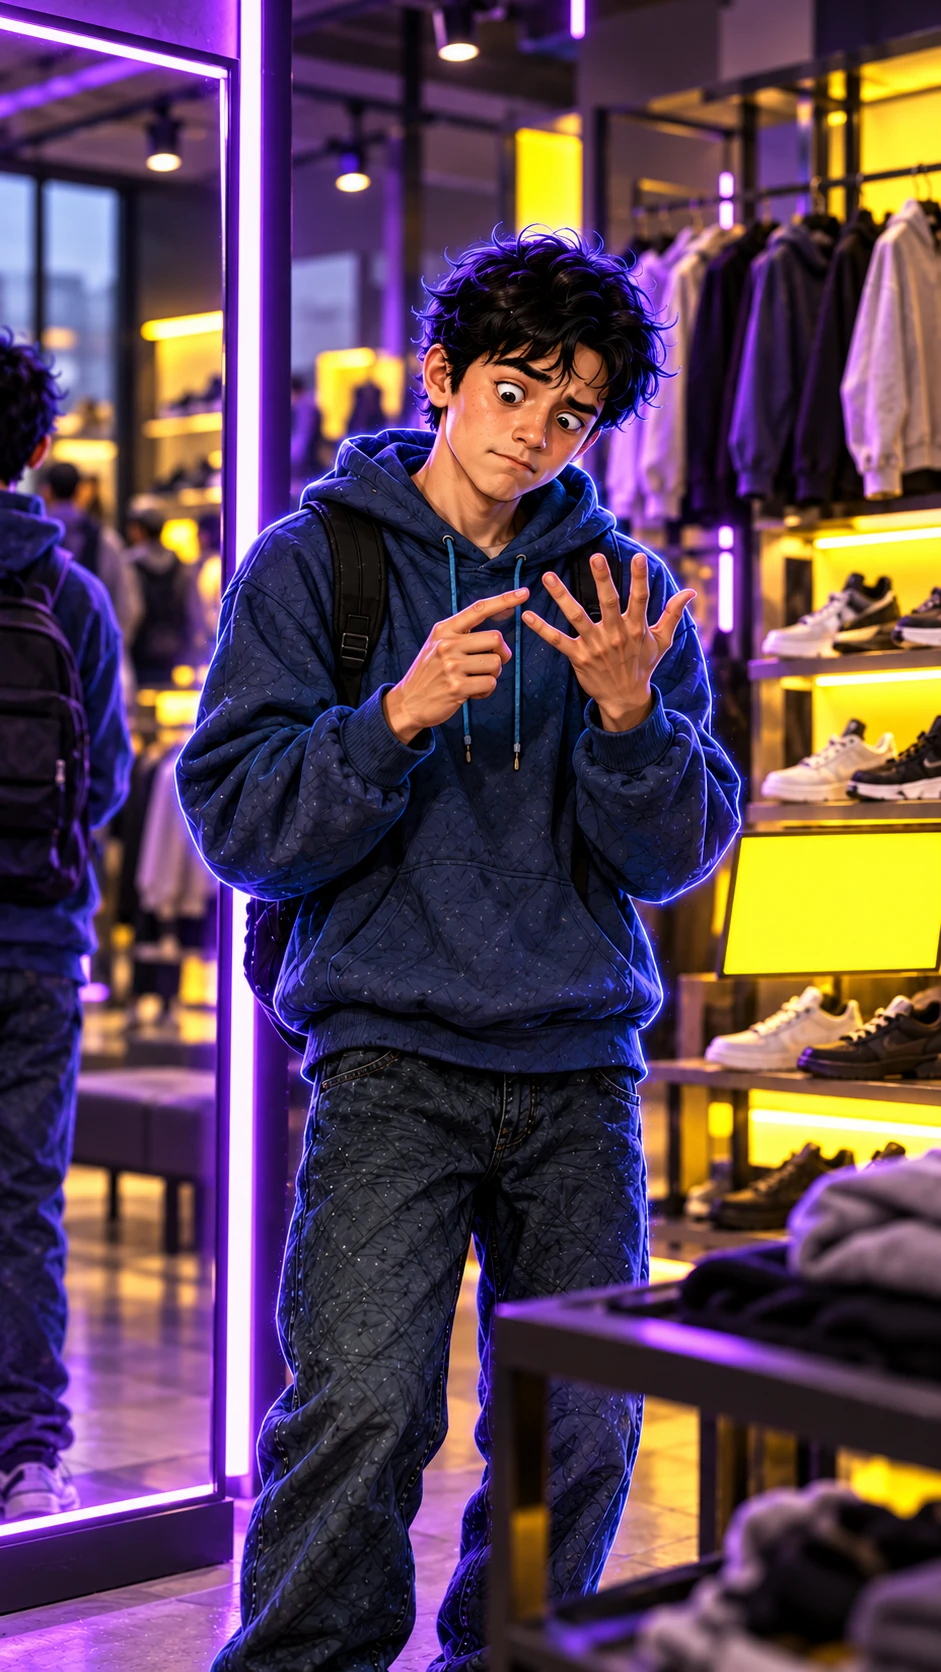
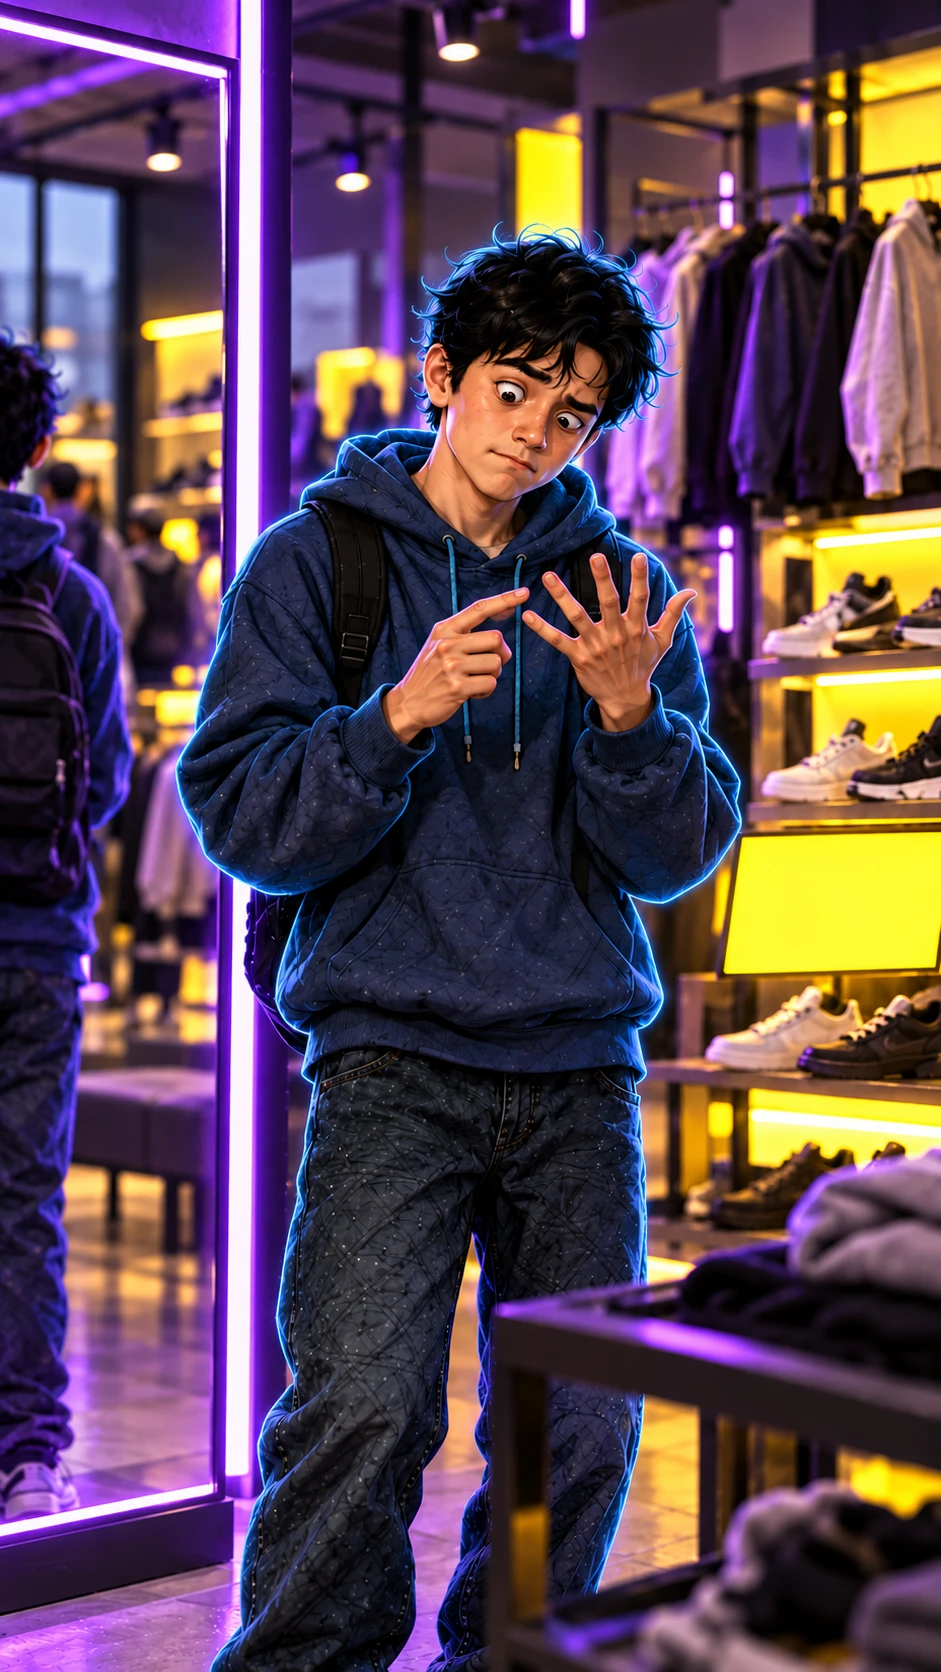
chegirma: scene 6 approved after glow edit (#390)
Claude-Session: https://claude.ai/code/session_01RL3x4tL7VqVmiGwddJSE5k

diff --git a/video/chegirma/rasmlar.html b/video/chegirma/rasmlar.html
@@ -58,7 +58,7 @@ pre{margin:0;white-space:pre-wrap;word-break:break-word;font-family:var(--mono);
 <div class="row"><div class="refs"><p class="rh">Shu rasmni biriktiring:</p><figure class="ref"><img src="web/ref_usta.webp" alt="Usta namunasi"><figcaption>ref_usta.png</figcaption></figure></div>
 <div class="txt"><span class="lbl">Ovoz</span><p class="voice">Usta: Hisoblaylik. Uch yuz mingdan bir yuz o&#x27;ttiz ming tushgan. Bu yetmish emas, qirq uch foiz.</p>
 <span class="lbl">Rasm prompti (ChatGPT, 9:16)</span>
-<pre id="p5">Attach the reference image of Usta. Keep every character exactly as in the reference image: the same face, age, hair, beard, clothes and props. Scene 5, vertical 9:16. Medium close-up INSIDE the shop at the sneaker stand. USTA (the calm man about 30 years old with a short jet-black beard, black-and-white Uzbek doppi skullcap, dark embroidered chapan robe with a red sash; his hands are the young strong hands of a 30-year-old man, smooth skin, no wrinkles, no swollen veins) lifts a big blank coral pink sale tag up with both hands like a lid; underneath it on the stand a smaller blank lemon-yellow card is revealed, glowing (we write «-43%» on it later). Usta looks at the camera over the tag with a calm, slightly amused face. inside a bright modern clothes and sneaker shop: white walls, light wooden shelves with sneakers, racks of jackets and hoodies, a glass entrance door with the cloudy street and passers-by visible through it, a few shoppers far in the background, softly out of focus, no clear faces. Background passers-by are small, blurred and faceless; only Usta and Diyor are in focus. Every person has exactly two arms and two hands, every hand clearly belongs to its own arm and shoulder, no hand does two things at once. Style: the same hand-painted illustration style as the reference images (painterly ink and paint, visible brush texture, cinematic soft daylight under a cloudy sky), a little darker and moodier, but still colourful and eye-catching: the coloured signs and shop lights glow against the grey day. Colour rule: the whole frame uses ONLY 2 main colours: hot coral pink and bright lemon-sun yellow; everything else is soft dark neutral shadow. Strong, saturated, glowing colour light, no rainbow, no other bright colours. Vertical 9:16. No text, no letters, no numbers, no logos, no watermark, no subtitles.</pre><button class="copy" data-t="p5">Nusxa olish</button></div></div></article><article class="card"><header><span class="num">06</span><h2>6-sahna — 9:16 (tik)</h2><span class="dur">29–32 s</span><span class="sws"><span class="sw sw-violet">binafsha</span><span class="sw sw-sun">limon sariq</span></span></header><div class="scenes"><figure class="sc"><img src="web/s06.webp" alt="6-sahna, ⚠ yaraydi · nur binafsharang tusda (img/s06.png)"><figcaption>⚠ yaraydi · nur binafsharang tusda (img/s06.png)</figcaption></figure></div><p class="note">Diyor yuzi namunadek: hayron, bir qoshi ko&#x27;tarilgan, lablari qisilgan. Qo&#x27;llar: chap qo&#x27;lda 5 barmoq ochiq, o&#x27;ng qo&#x27;l ko&#x27;rsatkich barmog&#x27;i bilan sanaydi — to&#x27;g&#x27;ri. Binafsha neon oyna, sariq javonlar. Kamchilik: Diyorning nuri moviy emas, binafsharang tusga kirgan (atrofdagi binafsha nurdan) — 2-sahnadagi pushtichalik emas; tahrir prompti berildi, egasi tanlaydi. Orqadagi krossovkalar juda xira, belgi ko&#x27;rinmaydi.</p>
+<pre id="p5">Attach the reference image of Usta. Keep every character exactly as in the reference image: the same face, age, hair, beard, clothes and props. Scene 5, vertical 9:16. Medium close-up INSIDE the shop at the sneaker stand. USTA (the calm man about 30 years old with a short jet-black beard, black-and-white Uzbek doppi skullcap, dark embroidered chapan robe with a red sash; his hands are the young strong hands of a 30-year-old man, smooth skin, no wrinkles, no swollen veins) lifts a big blank coral pink sale tag up with both hands like a lid; underneath it on the stand a smaller blank lemon-yellow card is revealed, glowing (we write «-43%» on it later). Usta looks at the camera over the tag with a calm, slightly amused face. inside a bright modern clothes and sneaker shop: white walls, light wooden shelves with sneakers, racks of jackets and hoodies, a glass entrance door with the cloudy street and passers-by visible through it, a few shoppers far in the background, softly out of focus, no clear faces. Background passers-by are small, blurred and faceless; only Usta and Diyor are in focus. Every person has exactly two arms and two hands, every hand clearly belongs to its own arm and shoulder, no hand does two things at once. Style: the same hand-painted illustration style as the reference images (painterly ink and paint, visible brush texture, cinematic soft daylight under a cloudy sky), a little darker and moodier, but still colourful and eye-catching: the coloured signs and shop lights glow against the grey day. Colour rule: the whole frame uses ONLY 2 main colours: hot coral pink and bright lemon-sun yellow; everything else is soft dark neutral shadow. Strong, saturated, glowing colour light, no rainbow, no other bright colours. Vertical 9:16. No text, no letters, no numbers, no logos, no watermark, no subtitles.</pre><button class="copy" data-t="p5">Nusxa olish</button></div></div></article><article class="card"><header><span class="num">06</span><h2>6-sahna — 9:16 (tik)</h2><span class="dur">29–32 s</span><span class="sws"><span class="sw sw-violet">binafsha</span><span class="sw sw-sun">limon sariq</span></span></header><div class="scenes"><figure class="sc"><img src="web/s06.webp" alt="6-sahna, ✅ tasdiqlandi (tahrirdan keyin, img/s06.png)"><figcaption>✅ tasdiqlandi (tahrirdan keyin, img/s06.png)</figcaption></figure></div><p class="note">Diyor yuzi namunadek: hayron, bir qoshi ko&#x27;tarilgan, lablari qisilgan. Qo&#x27;llar: chap qo&#x27;lda 5 barmoq ochiq, o&#x27;ng qo&#x27;l ko&#x27;rsatkich barmog&#x27;i bilan sanaydi — to&#x27;g&#x27;ri. Binafsha neon oyna, sariq javonlar. Kamchilik: Diyorning nuri moviy emas, binafsharang tusga kirgan (atrofdagi binafsha nurdan) — 2-sahnadagi pushtichalik emas; Tahrirdan keyin (B) nur moviy, qolgan hamma narsa o&#x27;zgarmagan. Orqadagi krossovkalar juda xira, belgi ko&#x27;rinmaydi.</p>
 <div class="row"><div class="refs"><p class="rh">Shu rasmni biriktiring:</p><figure class="ref"><img src="web/ref_diyor.webp" alt="Diyor namunasi"><figcaption>ref_diyor.png</figcaption></figure></div>
 <div class="txt"><span class="lbl">Ovoz</span><p class="voice">Diyor: Unda nega yetmish deb yozishgan?</p>
 <span class="lbl">Rasm prompti (ChatGPT, 9:16)</span>

diff --git a/video/chegirma/rasm_promptlar.py b/video/chegirma/rasm_promptlar.py
@@ -10,7 +10,7 @@ IMG = {   # egasi yuborgan sahna rasmlari: n → [("s01", "izoh"), ...]
  2: [("s02", "✅ tasdiqlandi (B, img/s02.png)")],
  8: [("s08", "✅ tasdiqlandi (img/s08.png)")],
  7: [("s07", "✅ tasdiqlandi (img/s07.png)")],
- 6: [("s06", "⚠ yaraydi · nur binafsharang tusda (img/s06.png)")],
+ 6: [("s06", "✅ tasdiqlandi (tahrirdan keyin, img/s06.png)")],
  5: [("s05", "✅ tasdiqlandi · Nike belgisi tozalandi (img/s05.png)")],
  4: [("s04", "✅ tasdiqlandi (img/s04.png)")],
  3: [("s03", "✅ tasdiqlandi (img/s03.png)")],
@@ -19,7 +19,7 @@ NOTE = {
  2: "A variantda Diyorning nuri pushti bo'lib qolgan edi (rad). B: moviy nur joyida, yuz namunadek, bir qo'li bannerni ko'rsatadi, ikkinchisida hamyon o'rniga telefon — 4-sahnadagi hamyon bilan kichik farq, sezilmaydi. Krossovkada juda xira belgi.",
  8: "Usta yuzi namunadek. O'ng qo'lda aniq 3 barmoq (bosh barmoq jimjiloqni ushlagan), chap qo'l pastda; ikkalasi yosh. Tepada 3 belgi: sariq lupa, ko'k o'lchov lentasi, pushti savol belgisi — yozuvsiz. Orqada eshikdan bulutli ko'cha, yuzsiz odamlar. Ranglar: sariq, ko'k, pushti. Lentada o'qilmaydigan mayda chiziqlar — normal.",
  7: "Usta yuzi namunadek; kaftini kameraga ochib «shoshilma» deydi — 5 barmoq, yosh qo'l. Oldinda kassada pushti neon taymer, ekrani bo'sh (montajda «faqat bugun 00:59:59»). Ranglar: pushti, binafsha. Chapdagi krossovkalar juda xira, belgi ko'rinmaydi.",
- 6: "Diyor yuzi namunadek: hayron, bir qoshi ko'tarilgan, lablari qisilgan. Qo'llar: chap qo'lda 5 barmoq ochiq, o'ng qo'l ko'rsatkich barmog'i bilan sanaydi — to'g'ri. Binafsha neon oyna, sariq javonlar. Kamchilik: Diyorning nuri moviy emas, binafsharang tusga kirgan (atrofdagi binafsha nurdan) — 2-sahnadagi pushtichalik emas; tahrir prompti berildi, egasi tanlaydi. Orqadagi krossovkalar juda xira, belgi ko'rinmaydi.",
+ 6: "Diyor yuzi namunadek: hayron, bir qoshi ko'tarilgan, lablari qisilgan. Qo'llar: chap qo'lda 5 barmoq ochiq, o'ng qo'l ko'rsatkich barmog'i bilan sanaydi — to'g'ri. Binafsha neon oyna, sariq javonlar. Kamchilik: Diyorning nuri moviy emas, binafsharang tusga kirgan (atrofdagi binafsha nurdan) — 2-sahnadagi pushtichalik emas; Tahrirdan keyin (B) nur moviy, qolgan hamma narsa o'zgarmagan. Orqadagi krossovkalar juda xira, belgi ko'rinmaydi.",
  5: "Usta yuzi namunadek, ayyorona tabassum, kameraga qaraydi. Ikki qo'li pushti yorliqni qopqoqdek ko'tarib turibdi, ostidan sariq yorliq ochilgan (bo'sh — montajda «-43%»). Oq krossovkalarda aniq Nike belgisi (yon tomonida va tilida) bor edi — Claude tozaladi. Ranglar: pushti, sariq.",
  4: "Diyor yuzi namunadek: o'ylanib, biroz uyalib yuqoriga qaraydi, og'zi yarim ochiq; moviy nur joyida. Telefonni jinsi cho'ntagiga qaytaradi (2-sahnadagi telefon bilan mos), ikkinchi qo'li sumka tasmasida. Promptda yo'q bo'lsa ham orqada Usta turibdi: qo'llari qovushtirilgan, shubha bilan yon qaraydi, yuzi namunaga mos — 3-sahna bilan uzviy. Ranglar: yalpiz yashil, bulutli ko'k.",
  3: "Usta yuzi namunadek, qo'llari qovushtirilgan (ikkala qo'l), do'kon ichi: yalpiz yashil va sariq javonlar, oynadan bulutli ko'cha va yuzsiz odamlar. Diyor faqat orqasidan, moviy nur sochida. Ranglar: yashil, sariq.",
